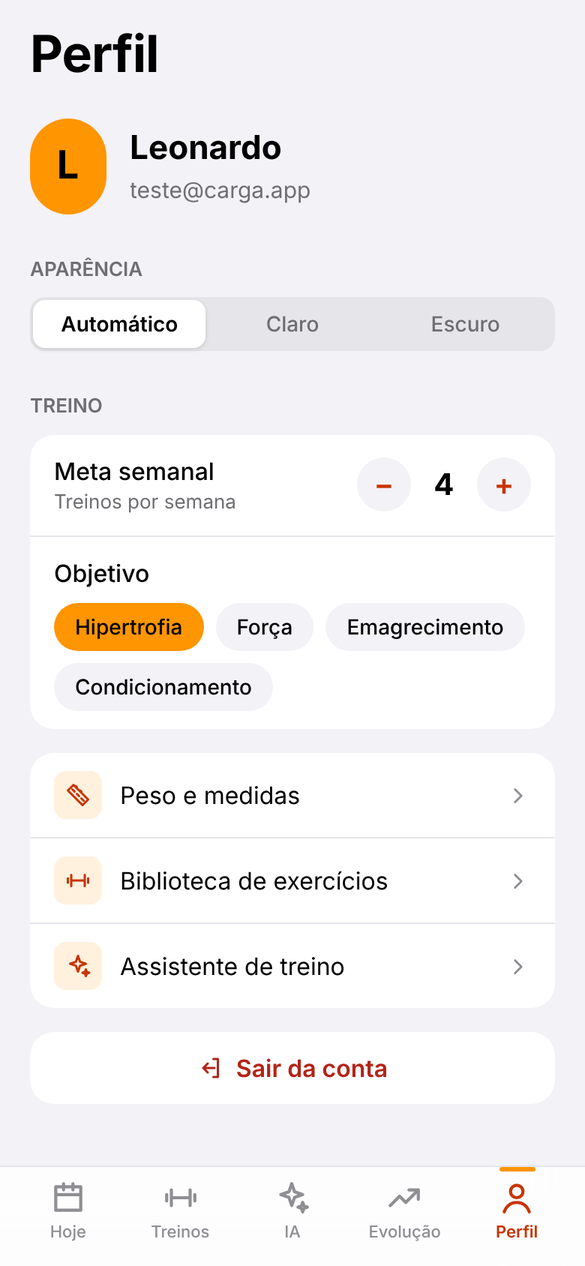
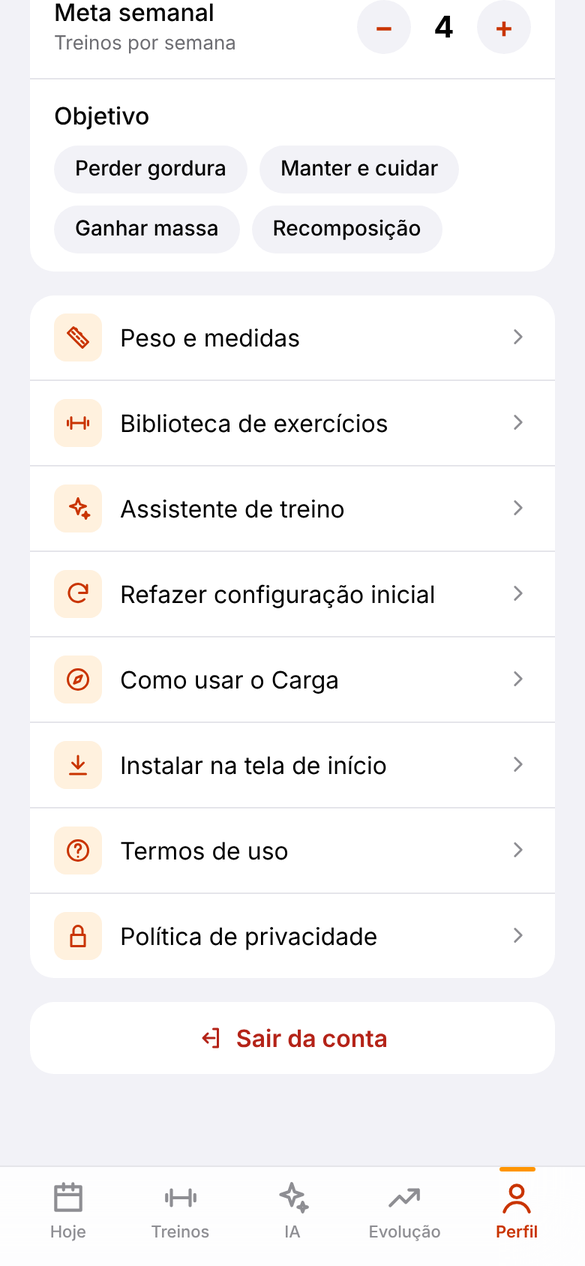
README: dominio, instalacao, tour, termos e prints novos

diff --git a/README.md b/README.md
@@ -2,6 +2,8 @@
 
 > Aplicativo web (PWA) para organizar a semana de treinos, registrar as séries na academia, acompanhar a progressão de carga e a evolução do corpo, com um assistente de IA que monta o treino a partir de um pedido em texto ou voz.
 
+🌐 **No ar em [carga.app.br](https://carga.app.br)**: abra no celular e adicione à tela de início.
+
 ![Telas do app](docs/screenshots/capa.png)
 
 ## Sumário
@@ -33,6 +35,15 @@ O visual segue as diretrizes de design da Apple (Human Interface Guidelines): fu
 - [x] Cadastro com nome, e-mail e senha
 - [x] Login
 - [x] "Esqueci minha senha" com link por e-mail e tela para criar uma senha nova
+- [x] E-mails de confirmação e de troca de senha em português, enviados pelo domínio próprio (`nao-responda@carga.app.br`, via Resend)
+- [x] Páginas de **Termos de uso** e **Política de privacidade** (LGPD), com link no cadastro, no Pro e no Perfil
+
+**Primeiros passos (instalar e aprender a usar)**
+- [x] **Guia de instalação** logo depois do cadastro: como o Carga não está na Play Store nem na App Store, o app mostra o passo a passo pra adicionar à tela de início, de acordo com o celular e o navegador (iPhone com Safari ou Chrome, Android com Chrome ou Samsung Internet)
+- [x] No Android, botão **Instalar o Carga** que abre a instalação do navegador com um toque, quando o navegador permite
+- [x] Detecta quando a pessoa abriu pelo navegador do Instagram (que não instala apps) e ensina a abrir no navegador do celular
+- [x] **Tour das funcionalidades**: 9 telas com prints reais do app explicando cada parte; aparece na primeira vez e também na primeira vez que o app instalado é aberto
+- [x] No Perfil: **Como usar o Carga** (rever o tour) e **Instalar na tela de início** (some quando o app já está instalado)
 
 **Treinos**
 - [x] Montar a própria semana: escolher o dia, dar nome ao treino e adicionar exercícios
@@ -82,19 +93,31 @@ O visual segue as diretrizes de design da Apple (Human Interface Guidelines): fu
 
 **Carga Pro (assinatura)**
 - [x] Teste grátis de 7 dias, plano mensal (R$ 19,90) e anual (R$ 99,90) com pagamento pelo **Stripe**
-- [x] Grátis: 5 mensagens por mês com a IA. Pro: IA sem limite, calorias pela foto do prato, gráfico de força (1RM), evolução do ano inteiro e linha do tempo do corpo
+- [x] Grátis: 5 mensagens por mês com a IA. Pro: IA à vontade (uso justo de 300 mensagens por mês), calorias pela foto do prato, importar ficha até 15 vezes por dia, gráfico de força (1RM), evolução do ano inteiro e linha do tempo do corpo
 - [x] Portal do cliente para trocar de plano, atualizar o cartão ou cancelar
 - [x] Webhook do Stripe sincroniza a assinatura com o banco automaticamente
 
 ## Telas
 
+### Primeiros passos
+
+| Instalar no iPhone | Instalar no Android | Veio do Instagram |
+|:---:|:---:|:---:|
+| ![](docs/screenshots/instalar-iphone-light.png) | ![](docs/screenshots/instalar-android-light.png) | ![](docs/screenshots/instalar-instagram-light.png) |
+
+| Tour: Hoje | Tour: treino que se adapta |
+|:---:|:---:|
+| ![](docs/screenshots/tour-light.png) | ![](docs/screenshots/tour-adapta-light.png) |
+
+### Dentro do app
+
 | Login | Hoje | Minha semana | Editar treino |
 |:---:|:---:|:---:|:---:|
 | ![](docs/screenshots/login-light.png) | ![](docs/screenshots/hoje-light.png) | ![](docs/screenshots/semana-light.png) | ![](docs/screenshots/editar-dia-light.png) |
 
-| Treino ao vivo | Calculadora de anilhas | Evolução | Perfil |
-|:---:|:---:|:---:|:---:|
-| ![](docs/screenshots/treino-ao-vivo-light.png) | ![](docs/screenshots/anilhas-light.png) | ![](docs/screenshots/evolucao-light.png) | ![](docs/screenshots/perfil-light.png) |
+| Treino ao vivo | Calculadora de anilhas | Evolução |
+|:---:|:---:|:---:|
+| ![](docs/screenshots/treino-ao-vivo-light.png) | ![](docs/screenshots/anilhas-light.png) | ![](docs/screenshots/evolucao-light.png) |
 
 | Medidas | Peso | Assistente de IA |
 |:---:|:---:|:---:|
@@ -104,9 +127,9 @@ O visual segue as diretrizes de design da Apple (Human Interface Guidelines): fu
 |:---:|:---:|:---:|
 | ![](docs/screenshots/importar-ficha-light.png) | ![](docs/screenshots/dia-leve-light.png) | ![](docs/screenshots/maquina-ocupada-light.png) |
 
-| Como fazer |  |  |
+| Como fazer | Termos de uso | Perfil |
 |:---:|:---:|:---:|
-| ![](docs/screenshots/como-fazer-light.png) |  |  |
+| ![](docs/screenshots/como-fazer-light.png) | ![](docs/screenshots/termos-light.png) | ![](docs/screenshots/perfil-light.png) |
 
 | Resumo da semana | Amigos | Card pro story |
 |:---:|:---:|:---:|
@@ -130,7 +153,10 @@ O visual segue as diretrizes de design da Apple (Human Interface Guidelines): fu
 | Estilo | Tailwind CSS 4 com variáveis de tema (claro e escuro) |
 | Animações | [Motion](https://motion.dev/) (antigo Framer Motion) |
 | Back-end | [Supabase](https://supabase.com/): autenticação e PostgreSQL com Row Level Security |
-| IA | [Claude API](https://docs.claude.com/) com *tool use* para gravar no banco |
+| IA | [Claude API](https://docs.claude.com/) com *tool use* para gravar no banco e *prompt caching*. Sonnet no Pro e em tudo que lê imagem; Haiku no chat do plano grátis (mais barato) |
+| Pagamentos | [Stripe](https://stripe.com/) (Checkout, portal do cliente e webhook) |
+| E-mail | [Resend](https://resend.com/) como SMTP do Supabase, no domínio próprio |
+| Hospedagem | [Vercel](https://vercel.com/) + domínio `carga.app.br` (Registro.br) |
 | Gráficos e corpo | SVG feito à mão (sem biblioteca) |
 
 ## Como rodar
@@ -167,7 +193,8 @@ O app abre em `http://localhost:3000`.
 | `NEXT_PUBLIC_SUPABASE_URL` | URL do projeto no Supabase |
 | `NEXT_PUBLIC_SUPABASE_PUBLISHABLE_KEY` | Chave publicável do Supabase (pode ficar no front) |
 | `ANTHROPIC_API_KEY` | Chave da API da Anthropic, usada só no servidor |
-| `ANTHROPIC_MODEL` | Modelo do Claude (padrão: `claude-sonnet-5-5`) |
+| `ANTHROPIC_MODEL` | Modelo do Claude no Pro e nas funções com imagem (padrão: `claude-sonnet-5-5`) |
+| `ANTHROPIC_MODEL_FREE` | Modelo do chat no plano grátis (padrão: `claude-haiku-5-5`) |
 | `STRIPE_SECRET_KEY` | Chave secreta do Stripe (`sk_test_...` no modo de teste) |
 | `STRIPE_WEBHOOK_SECRET` | Segredo do webhook (`whsec_...`) apontando para `/api/stripe/webhook` |
 | `STRIPE_PRICE_MONTHLY` / `STRIPE_PRICE_YEARLY` | IDs dos preços do Carga Pro |
@@ -186,10 +213,12 @@ O app abre em `http://localhost:3000`.
    - `20261108000006_nutricao.sql` → refeições, água e metas de nutrição
    - `20261108000007_social_prontidao_fotos.sql` → prontidão do treino, amigos e ranking, resumo semanal e fotos de progresso
 3. Em **Authentication → URL Configuration**, configure:
-   - **Site URL**: a URL do app publicado
-   - **Redirect URLs**: `https://SEU-DOMINIO/auth/confirm` e `http://localhost:3000/auth/confirm`
+   - **Site URL**: a URL do app publicado (aqui, `https://carga.app.br`)
+   - **Redirect URLs**: `https://SEU-DOMINIO/**` e `http://localhost:3000/**`
+4. Em **Authentication → Emails → SMTP Settings**, ligue o SMTP próprio. Com o Resend: host `smtp.resend.com`, porta `465`, usuário `resend` e uma API key do Resend como senha. O domínio precisa estar verificado no Resend (registros DKIM e SPF no DNS).
+5. Em **Authentication → Emails → Templates**, use links no formato `{{ .SiteURL }}/auth/confirm?token_hash={{ .TokenHash }}&type=email&next=/` (e `type=recovery` no de senha). Assim o link funciona mesmo se a pessoa abrir o e-mail em outro aparelho ou navegador.
 
-> ⚠ O envio de e-mail padrão do Supabase tem um limite baixo por hora. Para produção, configure um SMTP próprio em **Authentication → SMTP**.
+> ⚠ O envio de e-mail padrão do Supabase tem um limite baixo por hora. Para produção, use um SMTP próprio, como no passo 4.
 
 ## Banco de dados
 
@@ -255,15 +284,19 @@ src/
 │   │   ├── ia/            chat com o assistente
 │   │   └── perfil/        meta, objetivo, tema e sair
 │   ├── (focus)/treino/    treino ao vivo (tela cheia)
+│   ├── (focus)/pro/       planos e assinatura
+│   ├── (intro)/           comecar (instalação + tour na primeira vez), como-usar, instalar
+│   ├── (legal)/           termos de uso e política de privacidade
 │   ├── api/ia/            rota que conversa com o Claude
 │   ├── api/nutricao/      análise de foto/texto da refeição com o Claude
 │   ├── api/importar/      leitura da ficha da academia com o Claude
 │   ├── api/resumo/        sugestões da semana com o Claude
 │   └── auth/confirm/      retorno dos links de e-mail
-├── components/            UI, corpo anatômico (Body), gráfico (LineChart), seletor de exercícios
-├── lib/                   cliente Supabase, tipos, lógica de progressão, tema
+├── components/            UI, corpo anatômico (Body), gráfico (LineChart), seletor de exercícios, guia de instalação e tour
+├── lib/                   cliente Supabase, tipos, lógica de progressão, tema, detecção de instalação (install.ts), modelos de IA (ai-models.ts)
 └── proxy.ts               protege as rotas e renova a sessão
 supabase/migrations/       SQL do banco
+public/tour/               prints do tour dentro do app
 docs/screenshots/          prints usados neste README
 ```
 
@@ -275,7 +308,8 @@ docs/screenshots/          prints usados neste README
 - [ ] Check-in automático por localização da academia
 - [ ] Modo offline (salvar o treino sem internet e sincronizar depois)
 - [ ] Notificação quando o descanso termina com a tela bloqueada
-- [ ] Versão nativa com React Native / Expo
+- [ ] Versão nativa com React Native / Expo (e publicar na Play Store e na App Store)
+- [ ] Botão de excluir conta direto no Perfil
 
 ## Créditos
 
